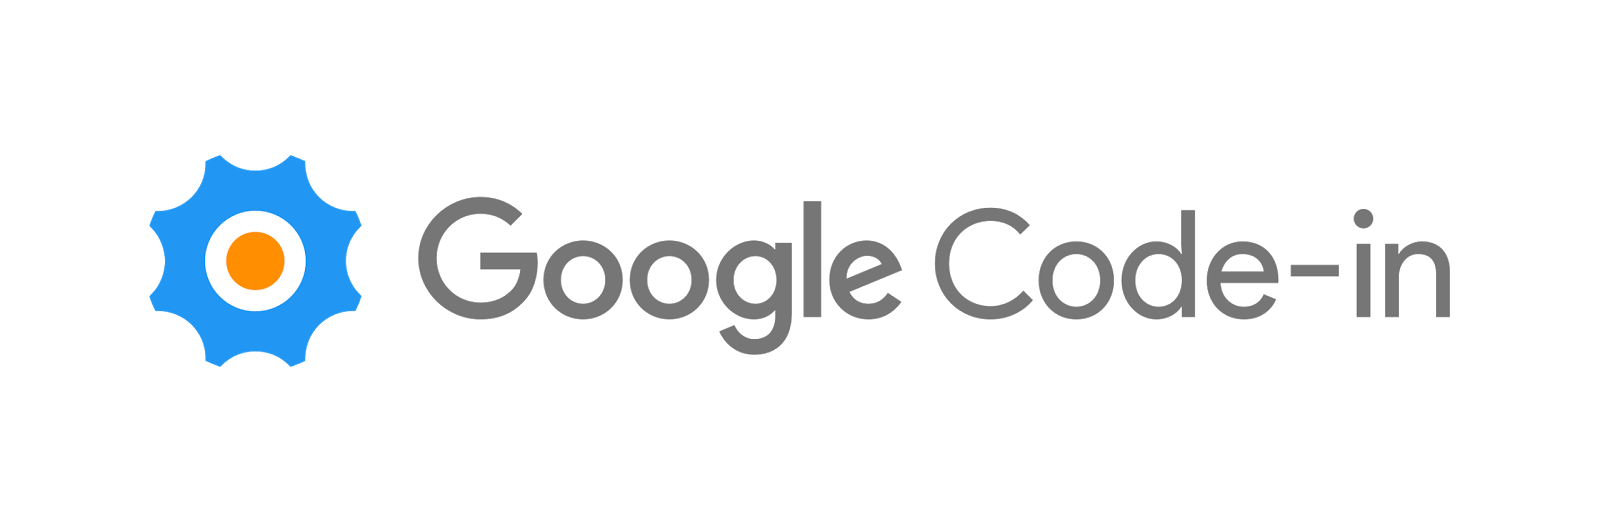
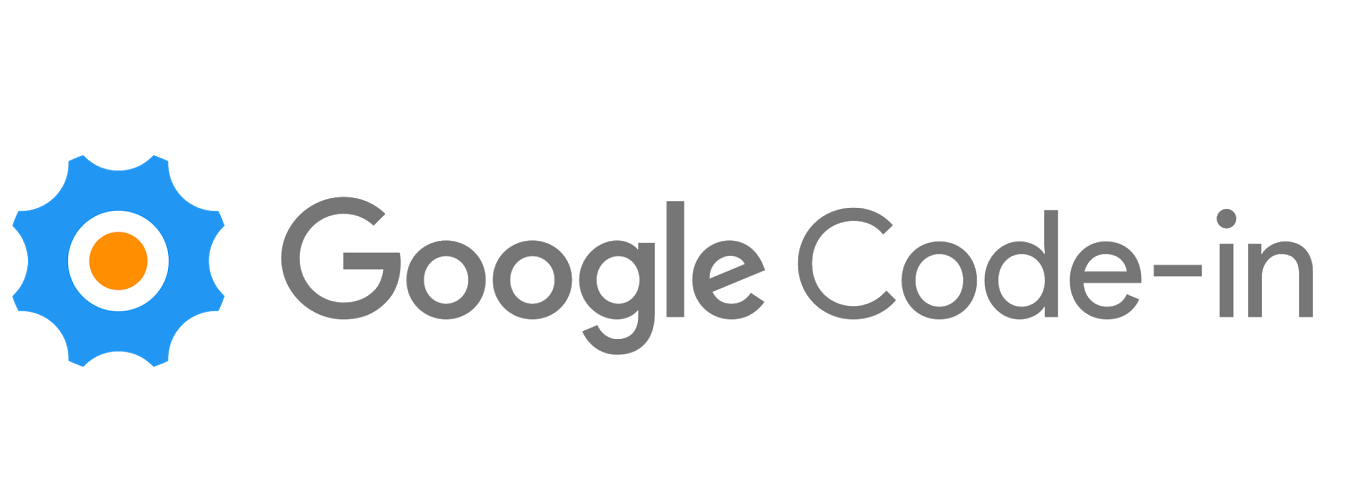
resize all res img to 1350x480

Changed region(s): [[0.0, 0.2812, 0.9956, 0.7812], [0.84, 0.4062, 0.8711, 0.4375]]

diff --git a/index.html b/index.html
@@ -73,9 +73,9 @@
         </div>
     </div>
     <div class="row">
-        <div class="col-4 offset-4">
+        <div class="col-md-4 offset-md-4 col-xs-12">
             <div class="row">
-                <div class="col-4 text-right">
+                <div class="col-4 text-center">
                     <a href="https://www.facebook.com/profile.php?id=100006246910023" target="_blank">
                         <img src="https://img.icons8.com/ios-glyphs/45/000000/facebook-circled.png" alt="Facebook">
                     </a>
@@ -85,7 +85,7 @@
                         <img src="https://img.icons8.com/ios-glyphs/45/000000/github.png" alt="GitHub">
                     </a>
                 </div>
-                <div class="col-4 text-left">
+                <div class="col-4 text-center">
                     <a href="index.html">
                         <img src="https://img.icons8.com/ios-glyphs/45/000000/globe.png" alt="Website">
                     </a>
@@ -96,13 +96,15 @@
 </div>
 <div class="container-fluid pt-lg-5 pt-md-2"
      style="height: 85vh">
-    <div class="row">
-        <div class="col-md-4 col-xs-12 offset-1">
-            <h2>GIỚI  THIỆU  BẢN  THÂN</h2>
-            <p class="lead">Tôi là Hoàng Tiến Minh, đang học lớp 12 tại trường THPT Nhân Chính. Đồng thời tôi cũng là một lập trình viên phát triển phần mềm và phát triển game.</p>
-            <a href="#" class="btn btn-info btn-lg disabled" role="button" aria-disabled="true">Xem thêm</a>
+    <div class="container">
+        <div class="row">
+            <div class="col-md-4 col-xs-12">
+                <h2>GIỚI  THIỆU  BẢN  THÂN</h2>
+                <p class="lead">Tôi là Hoàng Tiến Minh, đang học lớp 12 tại trường THPT Nhân Chính. Đồng thời tôi cũng là một lập trình viên phát triển phần mềm và phát triển game.</p>
+                <a href="#" class="btn btn-info btn-lg disabled" role="button" aria-disabled="true">Xem thêm</a>
+            </div>
+            <div class="col-md-4 col-xs-0"></div>
         </div>
-        <div class="col-md-4 col-xs-0"></div>
     </div>
 </div>
 <div class="container-fluid" style="height: 85vh">
@@ -122,12 +124,14 @@
         <div class="carousel-inner">
             <div class="carousel-item active">
                 <div id="banner-1">
-                    <div class="row">
-                        <div class="col-md-4 col-xs-11 offset-1" style="color: white; padding-top: 70px">
-                            <h3>Google Code-in</h3>
-                            <p class="lead">Cuộc thi Google Code-in được tổ chức vào năm 2016, dành cho học sinh từ 13 đến 18 tuổi.
-                                Đó cũng chính là dấu mốc đầu tiên cho niềm đam mê với lập trình của tôi</p>
-                            <a href="#" class="btn btn-primary btn-lg disabled" role="button" aria-disabled="true">Xem thêm</a>
+                    <div class="container-fluid">
+                        <div class="row">
+                            <div class="col-md-4 col-xs-12 offset-md-1 text-md-left text-xs-center text-justify" style="color: white; padding-top: 70px">
+                                <h3>Google Code-in</h3>
+                                <p class="lead">Cuộc thi Google Code-in được tổ chức vào năm 2016, dành cho học sinh từ 13 đến 18 tuổi.
+                                    Đó cũng chính là dấu mốc đầu tiên cho niềm đam mê với lập trình của tôi</p>
+                                <a href="#" class="btn btn-primary btn-lg disabled" role="button" aria-disabled="true">Xem thêm</a>
+                            </div>
                         </div>
                     </div>
                 </div>
@@ -135,7 +139,7 @@
             <div class="carousel-item">
                 <div id="banner-2">
                     <div class="row">
-                        <div class="col-md-4 col-xs-11 offset-1" style="color: white; padding-top: 70px">
+                        <div class="col-md-4 col-xs-12 offset-md-1 text-md-left text-xs-center" style="color: white; padding-top: 70px">
                             <h3>Young Maker Challenge</h3>
                             <p class="lead">Cuộc thi Young Maker Challenge được tổ chức vào năm 2017 bỏi Young Maker Vietnam và Intel.
                                 Đây là bước ngoặt lớn khi tôi được bắt đầu được tiếp cận những điều mới mẻ, nhất là lập trình phần cứng.</p>
@@ -147,7 +151,7 @@
             <div class="carousel-item">
                 <div id="banner-3">
                     <div class="row">
-                        <div class="col-md-4 col-xs-11 offset-1" style="color: white; padding-top: 70px">
+                        <div class="col-md-4 col-xs-12 offset-md-1 text-md-left text-xs-center" style="color: white; padding-top: 70px">
                             <h3>Trợ giảng tại Kiddicode</h3>
                             <p class="lead">Tại học viện Kiddicode, tôi không chỉ được củng cố thêm kiến thức mà còn được tự phát triển bản thân và những kĩ năng mềm của mình.</p>
                             <a href="#" class="btn btn-primary btn-lg disabled" role="button" aria-disabled="true">Xem thêm</a>

diff --git a/main-style.css b/main-style.css
@@ -9,22 +9,23 @@
     background-image:
             linear-gradient(to right, rgba(0,0,0,0.8), rgba(0,0,0,0.2)),
             url(res/GCI.png);
-    height: 480px;
     width: 100%;
-    background-size: cover;
+    height: 100%;
+    background-size: auto;
 }
 #banner-2 {
     background-image:
             linear-gradient(to right, rgba(0,0,0,0.8), rgba(0,0,0,0.2)),
-            url(res/YMC.jpg);
-    height: 480px;
+            url(res/YMC.jpeg);
     width: 100%;
-    background-size: cover;
+    height: 100%;
+    background-size: auto;
 }
 #banner-3 {
     background-image:
             linear-gradient(to right, rgba(0,0,0,0.8), rgba(0,0,0,0.2)),
             url(res/KDC.png);
-    height: 480px;
-    background-size: cover;
+    width: 100%;
+    height: 100%;
+    background-size: auto;
 }
